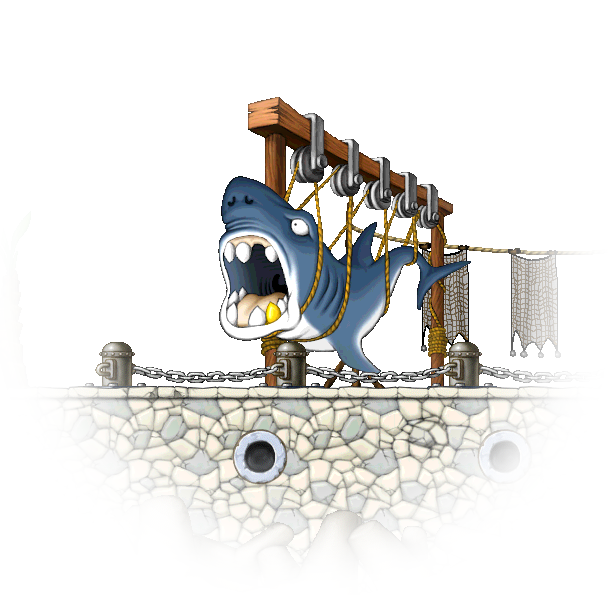
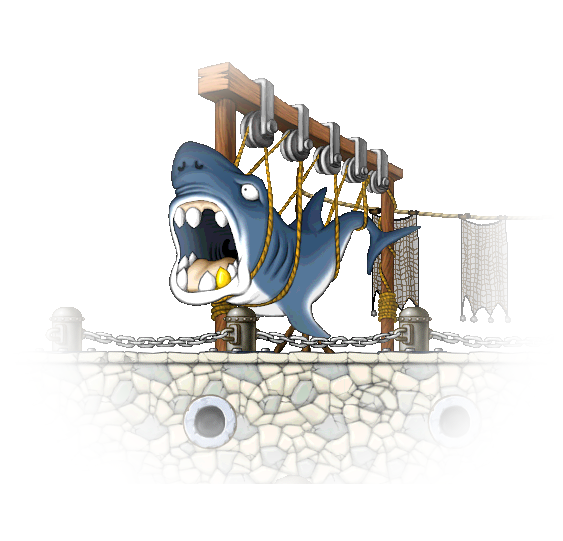
Normalize the size of event nodes in Lith Harbor

Changed region(s): [[0.0906, 0.1183, 0.9361, 0.8872]]

diff --git a/src/Map/LithHarbor.tsx b/src/Map/LithHarbor.tsx
@@ -1,3 +1,4 @@
+import classNames from "classnames";
 import { createUseStyles } from "react-jss";
 import { lithHarbor, lithHarborBalcony, lithHarborExit, lithHarborShark, WorldMap } from "../images";
 import { lithEventsOlaf } from "../scene/olaf";
@@ -26,33 +27,22 @@ const useStyles = createUseStyles({
         transform: "translate(-50%, -50%)",
         fontSize: "1.2rem",
     },
-    shark: {
-        background: `url(${lithHarborShark}) no-repeat`,
+    node: {
         backgroundSize: "contain",
-        width: "400px",
-        height: "400px",
+        backgroundRepeat: "no-repeat",
+        width: "350px",
+        height: "350px",
         margin: "auto",
         position: "relative",
         cursor: "pointer",
+        "& > img": {
+            maxWidth: "100%",
+            maxHeight: "100%",
+        },
     },
-    balcony: {
-        background: `url(${lithHarborBalcony}) no-repeat`,
-        backgroundSize: "contain",
-        width: "600px",
-        height: "300px",
-        margin: "auto",
-        position: "relative",
-        cursor: "pointer",
-    },
-    exit: {
-        background: `url(${lithHarborExit}) no-repeat`,
-        backgroundSize: "contain",
-        width: "295px",
-        height: "400px",
-        margin: "auto",
-        position: "relative",
-        cursor: "pointer",
-    },
+    shark: {},
+    balcony: {},
+    exit: {},
     eventsContainer: {
         display: "flex",
     },
@@ -86,21 +76,24 @@ const LithHarbor = ({ player, onExit, onClickScene }) => {
                 <div className={classes.inner}>
                     <h2>Lith Harbor</h2>
                     <div className={classes.eventsContainer}>
-                        <div className={classes.balcony} onClick={() => onClickScene(lithEventsOlaf)}>
+                        <div className={classNames(classes.node, classes.balcony)} onClick={() => onClickScene(lithEventsOlaf)}>
                             Event
+                            <img src={lithHarborBalcony} />
                             <div className={classes.event}>?</div>
                         </div>
-                        <div className={classes.shark} onClick={() => onClickScene(lithEventsTeoJohn)}>
+                        <div className={classNames(classes.node, classes.shark)} onClick={() => onClickScene(lithEventsTeoJohn)}>
                             Event
+                            <img src={lithHarborShark} />
                             <div className={classes.event}>?</div>
                         </div>
-                        <div className={classes.exit} onClick={onExit}>
+                        <div className={classNames(classes.node, classes.exit)} onClick={onExit}>
+                            Exit to World Map
+                            <img src={lithHarborExit} />
                             <div className={classes.event}>
                                 <div className={classes.eventInner}>
                                     <WorldMap />
                                 </div>
                             </div>
-                            Exit to World Map
                         </div>
                     </div>
                 </div>

diff --git a/src/images/index.ts b/src/images/index.ts
@@ -85,11 +85,12 @@ export { default as hotdog } from "./hotdog.png";
 export { default as johnImage } from "./john.png";
 export { default as teoImage } from "./teo.png";
 export { default as olafImage } from "./olaf.png";
-export { default as lithHarbor } from "./lithharbor.jpg";
-export { default as lithHarbor1 } from "./lithharbor1.png";
-export { default as lithHarborBalcony } from "./lithharbor2.png";
-export { default as lithHarborShark } from "./lithharborshark.png";
-export { default as lithHarborExit } from "./lithharborexit.png";
+export { default as lithHarbor } from "./lithHarbor.jpg";
+export { default as lithHarborSharkFull } from "./lithHarborSharkFull.png";
+export { default as lithHarborBalconyFull } from "./lithHarborBalconyFull.png";
+export { default as lithHarborBalcony } from "./lithHarborBalcony.png";
+export { default as lithHarborShark } from "./lithHarborShark.png";
+export { default as lithHarborExit } from "./lithHarborExit.png";
 
 export { default as noobClubA } from "./noobclub-a.png";
 export { default as noobClubB } from "./noobclub-b.png";

diff --git a/src/scene/olaf.tsx b/src/scene/olaf.tsx
@@ -1,7 +1,7 @@
 import classNames from "classnames";
 import { createUseStyles } from "react-jss";
 import { olaf } from "../enemy/enemy";
-import { lithHarborBalcony, olafImage, puppetree } from "../images";
+import { lithHarborBalconyFull, olafImage, puppetree } from "../images";
 import { Wave } from "../Menu/tutorial";
 import { Scene } from "./types";
 
@@ -13,7 +13,7 @@ const olafNPC = {
 const useStyles = createUseStyles({
     root: {
         position: "relative",
-        background: `url(${lithHarborBalcony}) no-repeat`,
+        background: `url(${lithHarborBalconyFull}) no-repeat`,
         width: "896px",
         height: "520px",
     },

diff --git a/src/scene/teojohn.tsx b/src/scene/teojohn.tsx
@@ -1,5 +1,5 @@
 import { createUseStyles } from "react-jss";
-import { hotdog, johnImage, lithHarbor1, teoImage } from "../images";
+import { hotdog, johnImage, lithHarborSharkFull, teoImage } from "../images";
 import { Scene, ScriptNode } from "./types";
 
 const teo = {
@@ -15,7 +15,7 @@ const john = {
 const useStyles = createUseStyles({
     root: {
         position: "relative",
-        background: `url(${lithHarbor1}) no-repeat`,
+        background: `url(${lithHarborSharkFull}) no-repeat`,
         width: "700px",
         height: "506px",
     },
